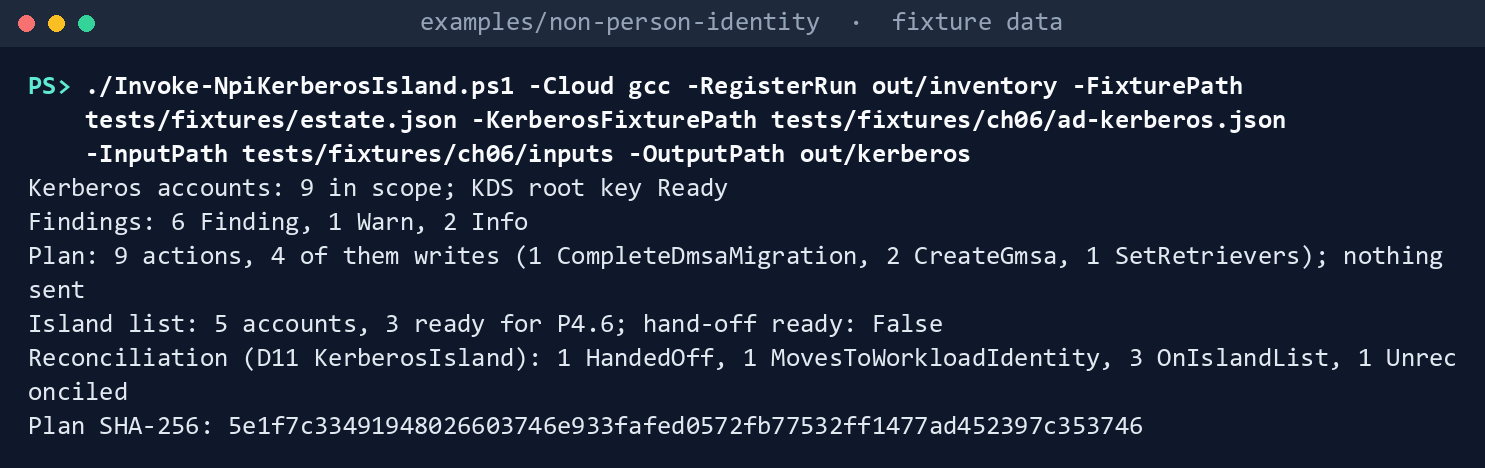
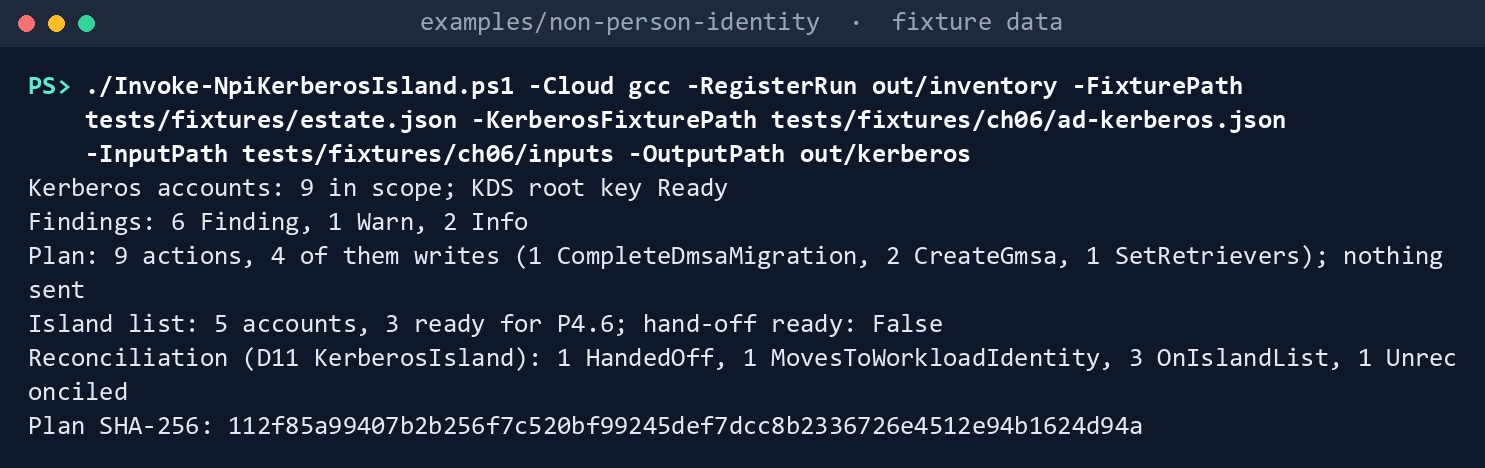
NPI lab captures: the plan hash after the 30-day dMSA wait
The Kerberos-island plan records migrationWaitDays, so changing it from 28 to 30 changed the plan's
SHA-256. Captures 06-4 and 06-9 (text and PNG), Chapter 06, Module 8's page and deck, and the
Chapter 06 tour now show 112f85a9..., what the kit prints.

Changed region(s): [[0.1549, 0.8675, 0.7744, 0.9274]]

diff --git a/presentations/dw-npi-06-gmsa-dmsa/build.js b/presentations/dw-npi-06-gmsa-dmsa/build.js
@@ -252,7 +252,7 @@ require("../_build/devwb.js")({
       ],
       sources: "Sources: examples/non-person-identity (tests and fixtures, fictional). Chapter 06, “Lab 1: fixtures, no tenant,” steps 1–3.",
       say: `Lab 1 needs only a laptop, PowerShell 7 and Pester, plus Chapter 1's inventory output. First you run Learn's own procedures against the stand-ins, and you can read the test where the migration-state step fails, just as it would on a real server. Then you list what each task is allowed to run: the read task is only lookups. Then you run the check against a fictional estate. Nine accounts are in scope, with six findings, four planned writes, and a hand-off that isn't ready yet. Let's see why.`,
-      detail: `You need PowerShell 7.1 or later with Pester 5. Work in examples/non-person-identity, with Chapter 01's out/inventory in place (Lab 1 of Chapter 01, step 3). Step 1, run Learn's procedures against the stand-ins: Invoke-Pester -Path tests/KerberosIslandSamples.Tests.ps1 -Output None -PassThru | Select-Object PassedCount, FailedCount, NotRunCount gives PassedCount 17, FailedCount 0, NotRunCount 0. Read the test for the state-3 step: Learn's block fails with "A parameter cannot be found that matches parameter name 'Properties'". Step 2, list what each task runs: kerberos-island: Get-ADComputer, Get-ADDomainController, Get-ADObject, Get-ADServiceAccount, Get-ADUser. kerberos-apply: Complete-ADServiceAccountMigration, Disable-ADAccount, Get-ADComputer, Get-ADDomainController, Get-ADObject, Get-ADServiceAccount, Get-ADUser, New-ADServiceAccount, Set-ADServiceAccount, Start-ADServiceAccountMigration. Step 3, check the Kerberos accounts and build the plan: ./Invoke-NpiKerberosIsland.ps1 -Cloud gcc -RegisterRun out/inventory -FixturePath tests/fixtures/estate.json -KerberosFixturePath tests/fixtures/ch06/ad-kerberos.json -InputPath tests/fixtures/ch06/inputs -OutputPath out/kerberos. Output: Kerberos accounts: 9 in scope; KDS root key Ready. Findings: 6 Finding, 1 Warn, 2 Info. Plan: 9 actions, 4 of them writes (1 CompleteDmsaMigration, 2 CreateGmsa, 1 SetRetrievers); nothing sent. Island list: 5 accounts, 3 ready for P4.6; hand-off ready: False. Reconciliation (D11 KerberosIsland): 1 HandedOff, 1 MovesToWorkloadIdentity, 3 OnIslandList, 1 Unreconciled. Plan SHA-256: 5e1f7c33491948026603746e933fafed0572fb77532ff1477ad452397c353746. The plan's hash is the same on every run with these inputs. The commands run Learn's pinned procedures against stand-ins, and run the example against a fictional estate and a fake Active Directory; -Apply in Lab 1 changes only the fake, in memory.`,
+      detail: `You need PowerShell 7.1 or later with Pester 5. Work in examples/non-person-identity, with Chapter 01's out/inventory in place (Lab 1 of Chapter 01, step 3). Step 1, run Learn's procedures against the stand-ins: Invoke-Pester -Path tests/KerberosIslandSamples.Tests.ps1 -Output None -PassThru | Select-Object PassedCount, FailedCount, NotRunCount gives PassedCount 17, FailedCount 0, NotRunCount 0. Read the test for the state-3 step: Learn's block fails with "A parameter cannot be found that matches parameter name 'Properties'". Step 2, list what each task runs: kerberos-island: Get-ADComputer, Get-ADDomainController, Get-ADObject, Get-ADServiceAccount, Get-ADUser. kerberos-apply: Complete-ADServiceAccountMigration, Disable-ADAccount, Get-ADComputer, Get-ADDomainController, Get-ADObject, Get-ADServiceAccount, Get-ADUser, New-ADServiceAccount, Set-ADServiceAccount, Start-ADServiceAccountMigration. Step 3, check the Kerberos accounts and build the plan: ./Invoke-NpiKerberosIsland.ps1 -Cloud gcc -RegisterRun out/inventory -FixturePath tests/fixtures/estate.json -KerberosFixturePath tests/fixtures/ch06/ad-kerberos.json -InputPath tests/fixtures/ch06/inputs -OutputPath out/kerberos. Output: Kerberos accounts: 9 in scope; KDS root key Ready. Findings: 6 Finding, 1 Warn, 2 Info. Plan: 9 actions, 4 of them writes (1 CompleteDmsaMigration, 2 CreateGmsa, 1 SetRetrievers); nothing sent. Island list: 5 accounts, 3 ready for P4.6; hand-off ready: False. Reconciliation (D11 KerberosIsland): 1 HandedOff, 1 MovesToWorkloadIdentity, 3 OnIslandList, 1 Unreconciled. Plan SHA-256: 112f85a99407b2b256f7c520bf99245def7dcc8b2336726e4512e94b1624d94a. The plan's hash is the same on every run with these inputs. The commands run Learn's pinned procedures against stand-ins, and run the example against a fictional estate and a fake Active Directory; -Apply in Lab 1 changes only the fake, in memory.`,
       cite: [],
       ref: "“Lab 1: fixtures, no tenant,” steps 1–3; the “Illustrative code” callout",
     },
@@ -298,7 +298,7 @@ require("../_build/devwb.js")({
       ],
       sources: "Sources: examples/non-person-identity fixtures (fictional). Chapter 06, “Lab 1: fixtures, no tenant,” steps 6–9 and expected result.",
       say: `Next you read the island list and the reconciliation side by side. Two rows aren't ready for hand-off, so the flag stays false, which is the point: an incomplete list never goes. Then the write path. A dry run with the approved hash reports the four writes it would send. Applying it to the fake sends them, and the results tell the operator what comes next, such as installing each new account on its hosts. Finally you pass a hash nobody approved, and it refuses outright. The full suite is five hundred thirteen passing tests.`,
-      detail: `Step 6, read the island list and the reconciliation. Island list: dmsa-hrsync$ dMSA hr-apps.owner@contoso.example 2027-06-30 True; gmsa-intranet$ gMSA (no owner) 2028-12-31 False; gmsa-print$ gMSA print.owner@contoso.example 2027-06-30 True; gmsa-web$ gMSA web.owner@contoso.example 2027-09-30 False; svc-webfront Traditional web.owner@contoso.example 2027-06-30 True. Reconciliation: dmsa-hrsync$ dMSA, not planned, Island, OnIslandList; gmsa-ops$ gMSA, not planned, WorkloadIdentity, MovesToWorkloadIdentity; gmsa-sql$ gMSA, HandedOff; gmsa-web$ gMSA, Island, OnIslandList; gmsa-intranet$ gMSA, planned, Island, Unreconciled; gmsa-print$ gMSA, planned, Island, OnIslandList. Step 7, dry-run the plan with its approved hash: $sha = (Get-FileHash out/kerberos/kerberos-plan.json -Algorithm SHA256).Hash.ToLower(), then ./Invoke-NpiKerberosIslandAction.ps1 -PlanPath out/kerberos/kerberos-plan.json -ApprovedSha256 $sha -FixturePath tests/fixtures/estate.json -KerberosFixturePath tests/fixtures/ch06/ad-kerberos.json -OutputPath out/kerberos-dryrun. Output: DryRun: 4 WouldSend: SetRetrievers gmsa-web$ Set-ADServiceAccount; CreateGmsa msa-print01$ New-ADServiceAccount; CompleteDmsaMigration svc-hrsync Complete-ADServiceAccountMigration; CreateGmsa svc-intranet New-ADServiceAccount. Step 8, apply it to the fake with -Apply, then try a hash nobody approved (-ApprovedSha256 ('0' * 64)): Apply: 4 Sent; results.json tells the operator what comes next (install each gMSA on its hosts and record HostChangedOn; the old svc-hrsync is disabled and kept). Then the refusal: "The plan's SHA-256 is 5e1f7c33…, not the approved 0000…; refusing to run a plan nobody reviewed." Step 9, Invoke-Pester -Path tests. Expected result: 513 tests passing across the example, out/kerberos/manifest.json listing seven AD reads and the SHA-256 of the register and each input, and out/kerberos-apply/manifest.json listing the prechecks and the four writes. Delete out when you're done. The chapter's tests: tests/KerberosIslandSamples.Tests.ps1, 17 tests (Learn's procedures, run as published against stand-ins); tests/NpiKerberosIsland.Tests.ps1, 44 tests: the call list and its least-privilege check, the reader's refusals, the register's hash, the end state with no default, the KDS root key read, each rule, gMSA and dMSA paths step by step, the retrievers, the island list and its hand-off, the reconciliation under each D11 decision, the deterministic plan, the writer's refusals (hash, tenant, domain, age, delete, undeclared call, parameter, empty list, encryption type, distinguished name), dry run, -Apply, the prechecks that skip a write, and the entry scripts.`,
+      detail: `Step 6, read the island list and the reconciliation. Island list: dmsa-hrsync$ dMSA hr-apps.owner@contoso.example 2027-06-30 True; gmsa-intranet$ gMSA (no owner) 2028-12-31 False; gmsa-print$ gMSA print.owner@contoso.example 2027-06-30 True; gmsa-web$ gMSA web.owner@contoso.example 2027-09-30 False; svc-webfront Traditional web.owner@contoso.example 2027-06-30 True. Reconciliation: dmsa-hrsync$ dMSA, not planned, Island, OnIslandList; gmsa-ops$ gMSA, not planned, WorkloadIdentity, MovesToWorkloadIdentity; gmsa-sql$ gMSA, HandedOff; gmsa-web$ gMSA, Island, OnIslandList; gmsa-intranet$ gMSA, planned, Island, Unreconciled; gmsa-print$ gMSA, planned, Island, OnIslandList. Step 7, dry-run the plan with its approved hash: $sha = (Get-FileHash out/kerberos/kerberos-plan.json -Algorithm SHA256).Hash.ToLower(), then ./Invoke-NpiKerberosIslandAction.ps1 -PlanPath out/kerberos/kerberos-plan.json -ApprovedSha256 $sha -FixturePath tests/fixtures/estate.json -KerberosFixturePath tests/fixtures/ch06/ad-kerberos.json -OutputPath out/kerberos-dryrun. Output: DryRun: 4 WouldSend: SetRetrievers gmsa-web$ Set-ADServiceAccount; CreateGmsa msa-print01$ New-ADServiceAccount; CompleteDmsaMigration svc-hrsync Complete-ADServiceAccountMigration; CreateGmsa svc-intranet New-ADServiceAccount. Step 8, apply it to the fake with -Apply, then try a hash nobody approved (-ApprovedSha256 ('0' * 64)): Apply: 4 Sent; results.json tells the operator what comes next (install each gMSA on its hosts and record HostChangedOn; the old svc-hrsync is disabled and kept). Then the refusal: "The plan's SHA-256 is 112f85a9…, not the approved 0000…; refusing to run a plan nobody reviewed." Step 9, Invoke-Pester -Path tests. Expected result: 513 tests passing across the example, out/kerberos/manifest.json listing seven AD reads and the SHA-256 of the register and each input, and out/kerberos-apply/manifest.json listing the prechecks and the four writes. Delete out when you're done. The chapter's tests: tests/KerberosIslandSamples.Tests.ps1, 17 tests (Learn's procedures, run as published against stand-ins); tests/NpiKerberosIsland.Tests.ps1, 44 tests: the call list and its least-privilege check, the reader's refusals, the register's hash, the end state with no default, the KDS root key read, each rule, gMSA and dMSA paths step by step, the retrievers, the island list and its hand-off, the reconciliation under each D11 decision, the deterministic plan, the writer's refusals (hash, tenant, domain, age, delete, undeclared call, parameter, empty list, encryption type, distinguished name), dry run, -Apply, the prechecks that skip a write, and the entry scripts.`,
       cite: [],
       ref: "“Lab 1: fixtures, no tenant,” steps 6–9; “The tests”",
     },

diff --git a/presentations/training-npi-module-8/build.js b/presentations/training-npi-module-8/build.js
@@ -220,7 +220,7 @@ endModule(SC);
     "Island list: 5 accounts, 3 ready for P4.6; hand-off ready: False",
     "Reconciliation (D11 KerberosIsland): 1 HandedOff,",
     "  1 MovesToWorkloadIdentity, 3 OnIslandList, 1 Unreconciled",
-    "Plan SHA-256: 5e1f7c33491948026603746e933fafed...",
+    "Plan SHA-256: 112f85a99407b2b256f7c520bf99245d...",
     "# Step 5: Format-Table Rule, Severity, ObjectKey",
     "NPI-KRB-03 Finding  gmsa-web$",
     "NPI-KRB-04 Finding  svc-webfront",
@@ -282,7 +282,7 @@ endModule(SC);
     "# Step 9: the same command with -Apply, then with -ApprovedSha256 ('0' * 64)",
     "Apply: 4 Sent",
     "  Sent      CompleteDmsaMigration svc-hrsync      Complete-ADServiceAccountMigration   (...)",
-    "The plan's SHA-256 is 5e1f7c33491948026603746e933fafed0572fb77532ff1477ad452397c353746, not the approved",
+    "The plan's SHA-256 is 112f85a99407b2b256f7c520bf99245def7dcc8b2336726e4512e94b1624d94a, not the approved",
     "  0000000000000000000000000000000000000000000000000000000000000000; refusing to run a plan nobody reviewed.",
   ], { label: "LAB 1 OUTPUT, RUN NOVEMBER 3, 2026 (TRIMMED: \"...\" MARKS CUTS; WRAPPED)", pt: 10.5 });
   line(s, "Tests", "Step 10: Invoke-Pester -Path tests prints 513 passed, 0 failed. Then Remove-Item -Recurse -Force out.", c + 0.25, 0.45, 13.5);

diff --git a/docs/project-plans/developer-workbooks/non-person-identity/06-gmsa-dmsa-and-the-kerberos-island.md b/docs/project-plans/developer-workbooks/non-person-identity/06-gmsa-dmsa-and-the-kerberos-island.md
@@ -280,7 +280,7 @@ It prints the three lines of Chapter 01's step 3, ending `Written to out/invento
    Plan: 9 actions, 4 of them writes (1 CompleteDmsaMigration, 2 CreateGmsa, 1 SetRetrievers); nothing sent
    Island list: 5 accounts, 3 ready for P4.6; hand-off ready: False
    Reconciliation (D11 KerberosIsland): 1 HandedOff, 1 MovesToWorkloadIdentity, 3 OnIslandList, 1 Unreconciled
-   Plan SHA-256: 5e1f7c33491948026603746e933fafed0572fb77532ff1477ad452397c353746
+   Plan SHA-256: 112f85a99407b2b256f7c520bf99245def7dcc8b2336726e4512e94b1624d94a
    ```
 
    <!-- capture:begin 06-4 (generated by scripts/kit_captures.py; not part of the reviewed page) -->
@@ -413,7 +413,7 @@ It prints the three lines of Chapter 01's step 3, ending `Written to out/invento
 
    <!-- capture:end -->
 
-   `Apply: 4 Sent`; `results.json` tells the operator what comes next (install each gMSA on its hosts and record `HostChangedOn`; the old `svc-hrsync` is disabled and kept). Then the refusal: `The plan's SHA-256 is 5e1f7c33…, not the approved 0000…; refusing to run a plan nobody reviewed.`
+   `Apply: 4 Sent`; `results.json` tells the operator what comes next (install each gMSA on its hosts and record `HostChangedOn`; the old `svc-hrsync` is disabled and kept). Then the refusal: `The plan's SHA-256 is 112f85a9…, not the approved 0000…; refusing to run a plan nobody reviewed.`
 
 9. **Run the tests:**
 

diff --git a/docs/training/non-person-identity/08-gmsa-dmsa-and-the-kerberos-island.md b/docs/training/non-person-identity/08-gmsa-dmsa-and-the-kerberos-island.md
@@ -162,7 +162,7 @@ Remove-Item -Recurse -Force out
     Plan: 9 actions, 4 of them writes (1 CompleteDmsaMigration, 2 CreateGmsa, 1 SetRetrievers); nothing sent
     Island list: 5 accounts, 3 ready for P4.6; hand-off ready: False
     Reconciliation (D11 KerberosIsland): 1 HandedOff, 1 MovesToWorkloadIdentity, 3 OnIslandList, 1 Unreconciled
-    Plan SHA-256: 5e1f7c33491948026603746e933fafed0572fb77532ff1477ad452397c353746
+    Plan SHA-256: 112f85a99407b2b256f7c520bf99245def7dcc8b2336726e4512e94b1624d94a
     ```
 
     The plan's hash is the same on every run with these inputs.
@@ -208,7 +208,7 @@ Remove-Item -Recurse -Force out
     ./Invoke-NpiKerberosIslandAction.ps1 -PlanPath out/kerberos/kerberos-plan.json -ApprovedSha256 ('0' * 64) -FixturePath tests/fixtures/estate.json -KerberosFixturePath tests/fixtures/ch06/ad-kerberos.json -OutputPath out/kerberos-x
     ```
 
-    Expect `Apply: 4 Sent`. Then the refusal: `The plan's SHA-256 is 5e1f7c33…, not the approved 0000…; refusing to run a plan nobody reviewed.`
+    Expect `Apply: 4 Sent`. Then the refusal: `The plan's SHA-256 is 112f85a9…, not the approved 0000…; refusing to run a plan nobody reviewed.`
 
 10. **Run the tests:**
 
